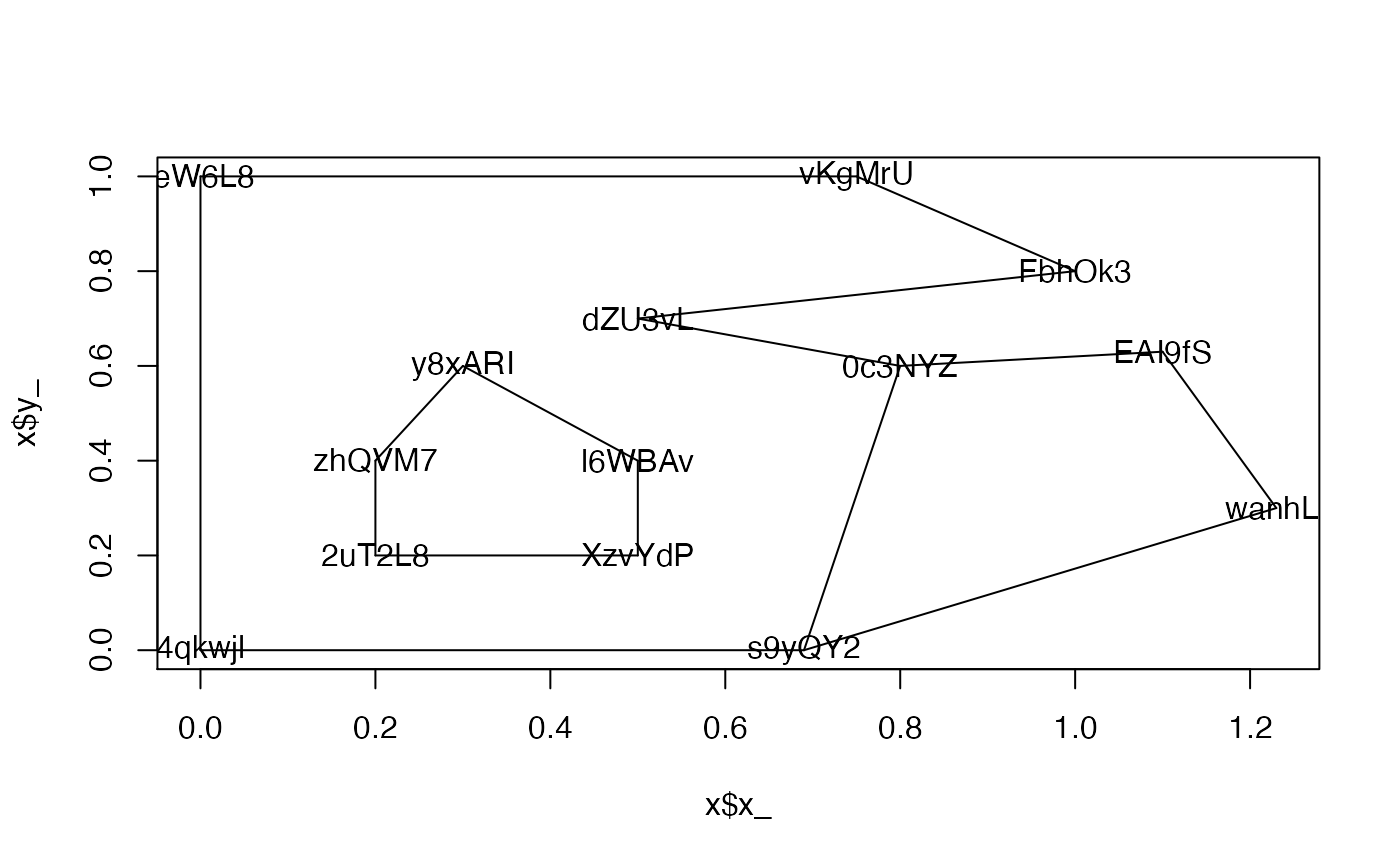
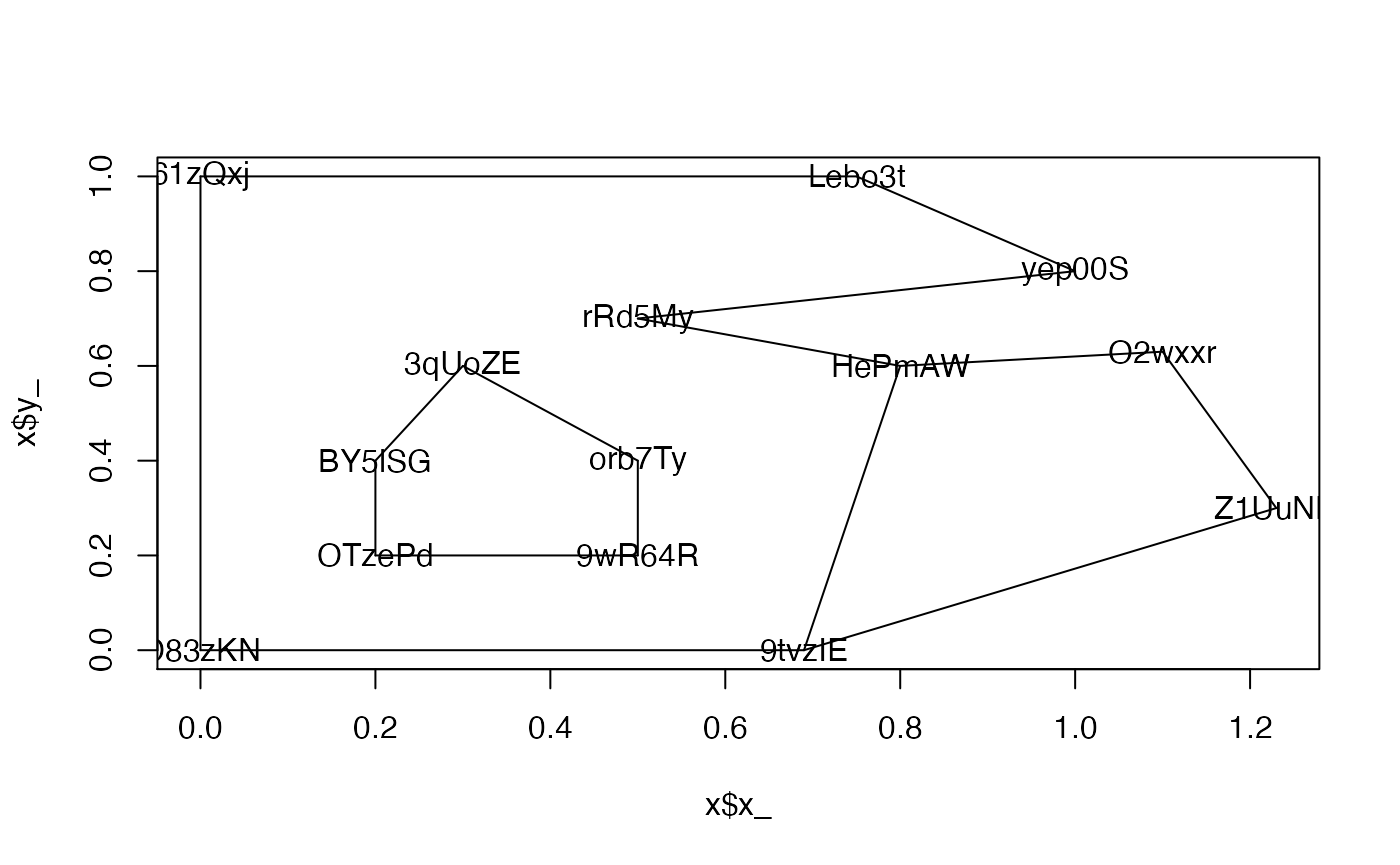
Built site for silicate: 0.6.1.9001@2c5049c

diff --git a/articles/silicate_topology_01.html b/articles/silicate_topology_01.html
@@ -155,21 +155,21 @@
 <pre><code>## # A tibble: 15 x 4
 ##    .vx0   .vx1   path_ edge_ 
 ##    &lt;chr&gt;  &lt;chr&gt;  &lt;int&gt; &lt;chr&gt; 
-##  1 4qkwjl leW6L8     1 FMfAiQ
-##  2 leW6L8 vKgMrU     1 Iclx5w
-##  3 vKgMrU FbhOk3     1 wTYpHf
-##  4 dZU3vL FbhOk3     1 hpJGks
-##  5 dZU3vL 0c3NYZ     1 0Jg25t
-##  6 s9yQY2 0c3NYZ     1 WdvBGZ
-##  7 4qkwjl s9yQY2     1 HkG9hU
-##  8 2uT2L8 XzvYdP     2 qjxyC9
-##  9 XzvYdP l6WBAv     2 vSDkhL
-## 10 y8xARI l6WBAv     2 b2u3OL
-## 11 zhQVM7 y8xARI     2 c4gAQW
-## 12 2uT2L8 zhQVM7     2 MzZkxU
-## 13 0c3NYZ EAI9fS     3 nL8lSn
-## 14 EAI9fS wanhLt     3 I3bft3
-## 15 s9yQY2 wanhLt     3 d67Xb3</code></pre>
+##  1 O83zKN 61zQxj     1 zmC6d5
+##  2 61zQxj Lebo3t     1 beVgha
+##  3 Lebo3t yep00S     1 VtllUQ
+##  4 rRd5My yep00S     1 mAu4HI
+##  5 rRd5My HePmAW     1 qj1no6
+##  6 9tvzIE HePmAW     1 rVxoWA
+##  7 O83zKN 9tvzIE     1 dF3IYX
+##  8 OTzePd 9wR64R     2 m70XGc
+##  9 9wR64R orb7Ty     2 dE1Jpu
+## 10 3qUoZE orb7Ty     2 9G91iB
+## 11 BY5lSG 3qUoZE     2 x6j3Gi
+## 12 OTzePd BY5lSG     2 XsdTZv
+## 13 HePmAW O2wxxr     3 Gf85ta
+## 14 O2wxxr Z1UuNN     3 BG701t
+## 15 9tvzIE Z1UuNN     3 vEvALA</code></pre>
 <div class="sourceCode" id="cb9"><pre class="downlit">
 <span class="fu"><a href="https://rdrr.io/r/base/print.html">print</a></span><span class="op">(</span><span class="va">x</span><span class="op">)</span></pre></div>
 <pre><code>## class       : SC
@@ -202,25 +202,25 @@
 <pre><code>## # A tibble: 19 x 10
 ##        a object_  ncol type         subobject path_ ncoords_ vertex_    x_    y_
 ##    &lt;int&gt; &lt;chr&gt;   &lt;int&gt; &lt;chr&gt;            &lt;int&gt; &lt;chr&gt;    &lt;int&gt; &lt;chr&gt;   &lt;dbl&gt; &lt;dbl&gt;
-##  1     1 1XI8QI      2 MULTIPOLYGON         1 xgUh…        8 hsv9TI   0     0   
-##  2     1 1XI8QI      2 MULTIPOLYGON         1 xgUh…        8 kOtQjj   0     1   
-##  3     1 1XI8QI      2 MULTIPOLYGON         1 xgUh…        8 141Ejh   0.75  1   
-##  4     1 1XI8QI      2 MULTIPOLYGON         1 xgUh…        8 HRr2yv   1     0.8 
-##  5     1 1XI8QI      2 MULTIPOLYGON         1 xgUh…        8 d27LEN   0.5   0.7 
-##  6     1 1XI8QI      2 MULTIPOLYGON         1 xgUh…        8 Gr0Btv   0.8   0.6 
-##  7     1 1XI8QI      2 MULTIPOLYGON         1 xgUh…        8 rZ2RL6   0.69  0   
-##  8     1 1XI8QI      2 MULTIPOLYGON         1 xgUh…        8 hsv9TI   0     0   
-##  9     1 1XI8QI      2 MULTIPOLYGON         1 DRFH…        6 iGNFJf   0.2   0.2 
-## 10     1 1XI8QI      2 MULTIPOLYGON         1 DRFH…        6 YP6krz   0.5   0.2 
-## 11     1 1XI8QI      2 MULTIPOLYGON         1 DRFH…        6 tKNSyk   0.5   0.4 
-## 12     1 1XI8QI      2 MULTIPOLYGON         1 DRFH…        6 OQ5C8j   0.3   0.6 
-## 13     1 1XI8QI      2 MULTIPOLYGON         1 DRFH…        6 29t2KY   0.2   0.4 
-## 14     1 1XI8QI      2 MULTIPOLYGON         1 DRFH…        6 iGNFJf   0.2   0.2 
-## 15     2 DVw5Vp      2 MULTIPOLYGON         1 ukf0…        5 rZ2RL6   0.69  0   
-## 16     2 DVw5Vp      2 MULTIPOLYGON         1 ukf0…        5 Gr0Btv   0.8   0.6 
-## 17     2 DVw5Vp      2 MULTIPOLYGON         1 ukf0…        5 OHv1MO   1.1   0.63
-## 18     2 DVw5Vp      2 MULTIPOLYGON         1 ukf0…        5 sE44iu   1.23  0.3 
-## 19     2 DVw5Vp      2 MULTIPOLYGON         1 ukf0…        5 rZ2RL6   0.69  0</code></pre>
+##  1     1 WgP9sJ      2 MULTIPOLYGON         1 vXh8…        8 HUGic7   0     0   
+##  2     1 WgP9sJ      2 MULTIPOLYGON         1 vXh8…        8 dXBTM5   0     1   
+##  3     1 WgP9sJ      2 MULTIPOLYGON         1 vXh8…        8 hwfzYQ   0.75  1   
+##  4     1 WgP9sJ      2 MULTIPOLYGON         1 vXh8…        8 HjrFta   1     0.8 
+##  5     1 WgP9sJ      2 MULTIPOLYGON         1 vXh8…        8 z8tj6L   0.5   0.7 
+##  6     1 WgP9sJ      2 MULTIPOLYGON         1 vXh8…        8 Ps2aiu   0.8   0.6 
+##  7     1 WgP9sJ      2 MULTIPOLYGON         1 vXh8…        8 XU9pGr   0.69  0   
+##  8     1 WgP9sJ      2 MULTIPOLYGON         1 vXh8…        8 HUGic7   0     0   
+##  9     1 WgP9sJ      2 MULTIPOLYGON         1 twQg…        6 I2TlHq   0.2   0.2 
+## 10     1 WgP9sJ      2 MULTIPOLYGON         1 twQg…        6 741Xcn   0.5   0.2 
+## 11     1 WgP9sJ      2 MULTIPOLYGON         1 twQg…        6 z5exA3   0.5   0.4 
+## 12     1 WgP9sJ      2 MULTIPOLYGON         1 twQg…        6 mfM2TA   0.3   0.6 
+## 13     1 WgP9sJ      2 MULTIPOLYGON         1 twQg…        6 yrkwEg   0.2   0.4 
+## 14     1 WgP9sJ      2 MULTIPOLYGON         1 twQg…        6 I2TlHq   0.2   0.2 
+## 15     2 zj6rz5      2 MULTIPOLYGON         1 oXns…        5 XU9pGr   0.69  0   
+## 16     2 zj6rz5      2 MULTIPOLYGON         1 oXns…        5 Ps2aiu   0.8   0.6 
+## 17     2 zj6rz5      2 MULTIPOLYGON         1 oXns…        5 zgTNra   1.1   0.63
+## 18     2 zj6rz5      2 MULTIPOLYGON         1 oXns…        5 zZ7ZyI   1.23  0.3 
+## 19     2 zj6rz5      2 MULTIPOLYGON         1 oXns…        5 XU9pGr   0.69  0</code></pre>
 <p>Paths are easily re-expressed as a set of edges, treating each pair of coordinates as a new kind of entity. Some edges are <em>shared</em>, in that two objects might have a particular edge in their own path. If the shared neighbours are two polygons, then it’s likely that each polygon encounters that edge in a different direction, but this is not a stable pattern so it’s best to not assume it to be the case. It’s important here because we need to differentiate between an <em>instance of an edge</em>, which is a particular <em>line segment</em> that is part of one particular polygon. If that polygon segment is a shared edge with a neighbour polygon, then we distinguish the instances as a particular <em>segment</em> of a unique <em>edge</em>. This allows us the opportunity to treat the edge as completely abstract, and also to decide or record what it’s orientation is, which records which vertex is the first one, and which is the second. Not all applications need to care about this distinction, though.</p>
 <p>In this way we have an analogy for edges and segments compared to vertices and coordinates, and I think this terminology makes sense!</p>
 </div>
@@ -260,7 +260,7 @@
 <span class="co"># 15.476   0.225  15.460 </span>
 <span class="fu"><a href="https://rdrr.io/r/base/system.time.html">system.time</a></span><span class="op">(</span><span class="va">tri</span> <span class="op">&lt;-</span> <span class="fu"><a href="../reference/TRI.html">TRI</a></span><span class="op">(</span><span class="va">inlandwaters</span><span class="op">)</span><span class="op">)</span></pre></div>
 <pre><code>##    user  system elapsed 
-##   3.563   0.179   3.851</code></pre>
+##   3.889   0.212   4.133</code></pre>
 <p>The triangles are low-quality (but triangles are very easy to subdivide).</p>
 <div class="sourceCode" id="cb24"><pre class="downlit">
 <span class="fu"><a href="https://rdrr.io/r/graphics/plot.default.html">plot</a></span><span class="op">(</span><span class="va">tri</span><span class="op">)</span></pre></div>
